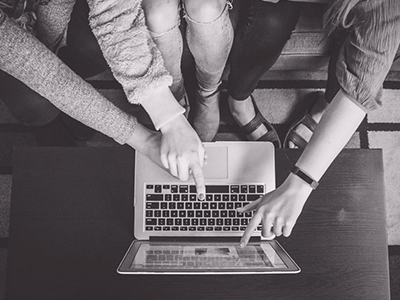
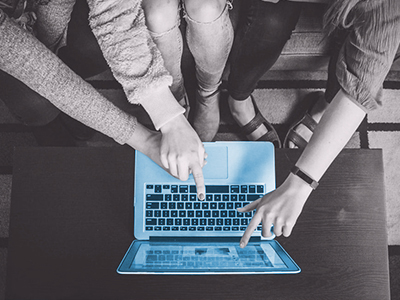
added blue to portfolio pictures

Changed region(s): [[0.27, 0.45, 0.75, 0.93]]

diff --git a/index.html b/index.html
@@ -87,7 +87,7 @@
           <div class="col-xl-9 col-lg-10 mx-auto">
             <div class="bg-faded rounded p-5">
               <h2 class="section-heading mb-4"> <span class="section-heading-upper">Health Coaching, Wellness</span> <span class="section-heading-lower">About US</span> </h2>
-              <p>Abbastanza was founded by Jennifer Kotalik in order to change the conversation about body image and acceptance. Starting small, her team is growing into a dedicated community who work together to encourage wellness from within. We work to combat eating disorders, body dysmorphia, and other mental health problems caused by the myth of body perfection. Through education, counseling, and community outreach, we at Abbastanza strive to make members of our community know that they are enough.</p>
+              <p>Abbastanza was founded by Jennifer Kotalik with the mission of changing the conversation around body image and acceptance. Starting small, her team is growing into a dedicated community who work together to encourage wellness from within. We work to combat eating disorders, body dysmorphia, and other mental health problems caused by the myth of body perfection. Through education, counseling, and community outreach, we at Abbastanza strive to make members of our community know that they are enough.</p>
               </p>
             </div>
           </div>
@@ -118,7 +118,6 @@
           </a>
           <div class="portfolio-caption">
             <h4>Health Coaching</h4>
-            <p class="text-muted">Subtitle</p>
           </div>
         </div>
         <div class="col-md-4 col-sm-6 portfolio-item">
@@ -132,7 +131,7 @@
           </a>
           <div class="portfolio-caption">
             <h4>Personal Training</h4>
-            <p class="text-muted">Subtitle</p>
+           
           </div>
         </div>
         <div class="col-md-4 col-sm-6 portfolio-item">
@@ -146,7 +145,6 @@
           </a>
           <div class="portfolio-caption">
             <h4>Events</h4>
-            <p class="text-muted">Subtitle</p>
           </div>
         </div>                
         </div>
@@ -187,8 +185,7 @@
                       <img class="img-fluid" src="img/portfolio/01-thumbnail.jpg" alt="">
                     </a>
                     <div class="portfolio-caption">
-                      <h4>Artist & Designer</h4>
-                      <p class="text-muted">Subtitle</p>
+						<h4>Artist & Designer</h4>
                     </div>
                   </div>
                   <div class="col-md-4 col-sm-6 portfolio-item">
@@ -202,7 +199,7 @@
                     </a>
                     <div class="portfolio-caption">
                       <h4>Social Media Manager</h4>
-                      <p class="text-muted">Subtitle</p>
+                      
                     </div>
                   </div>
                   <div class="col-md-4 col-sm-6 portfolio-item">
@@ -216,7 +213,7 @@
                     </a>
                     <div class="portfolio-caption">
                       <h4>Marketing Specialist</h4>
-                      <p class="text-muted">Subtitle</p>
+                      
                     </div>
                   </div>                
                   </div>
@@ -364,7 +361,7 @@
             </a>
             <div class="portfolio-caption">
               <h4>Health Coaching</h4>
-              <p class="text-muted">Subtitle</p>
+              
             </div>
           </div>
           <div class="col-md-4 col-sm-6 portfolio-item">
@@ -378,7 +375,7 @@
             </a>
             <div class="portfolio-caption">
               <h4>Personal Training</h4>
-              <p class="text-muted">Subtitle</p>
+              
             </div>
           </div>
           <div class="col-md-4 col-sm-6 portfolio-item">
@@ -392,7 +389,7 @@
             </a>
             <div class="portfolio-caption">
               <h4>Events</h4>
-              <p class="text-muted">Subtitle</p>
+              
             </div>
           </div>                
           </div>
